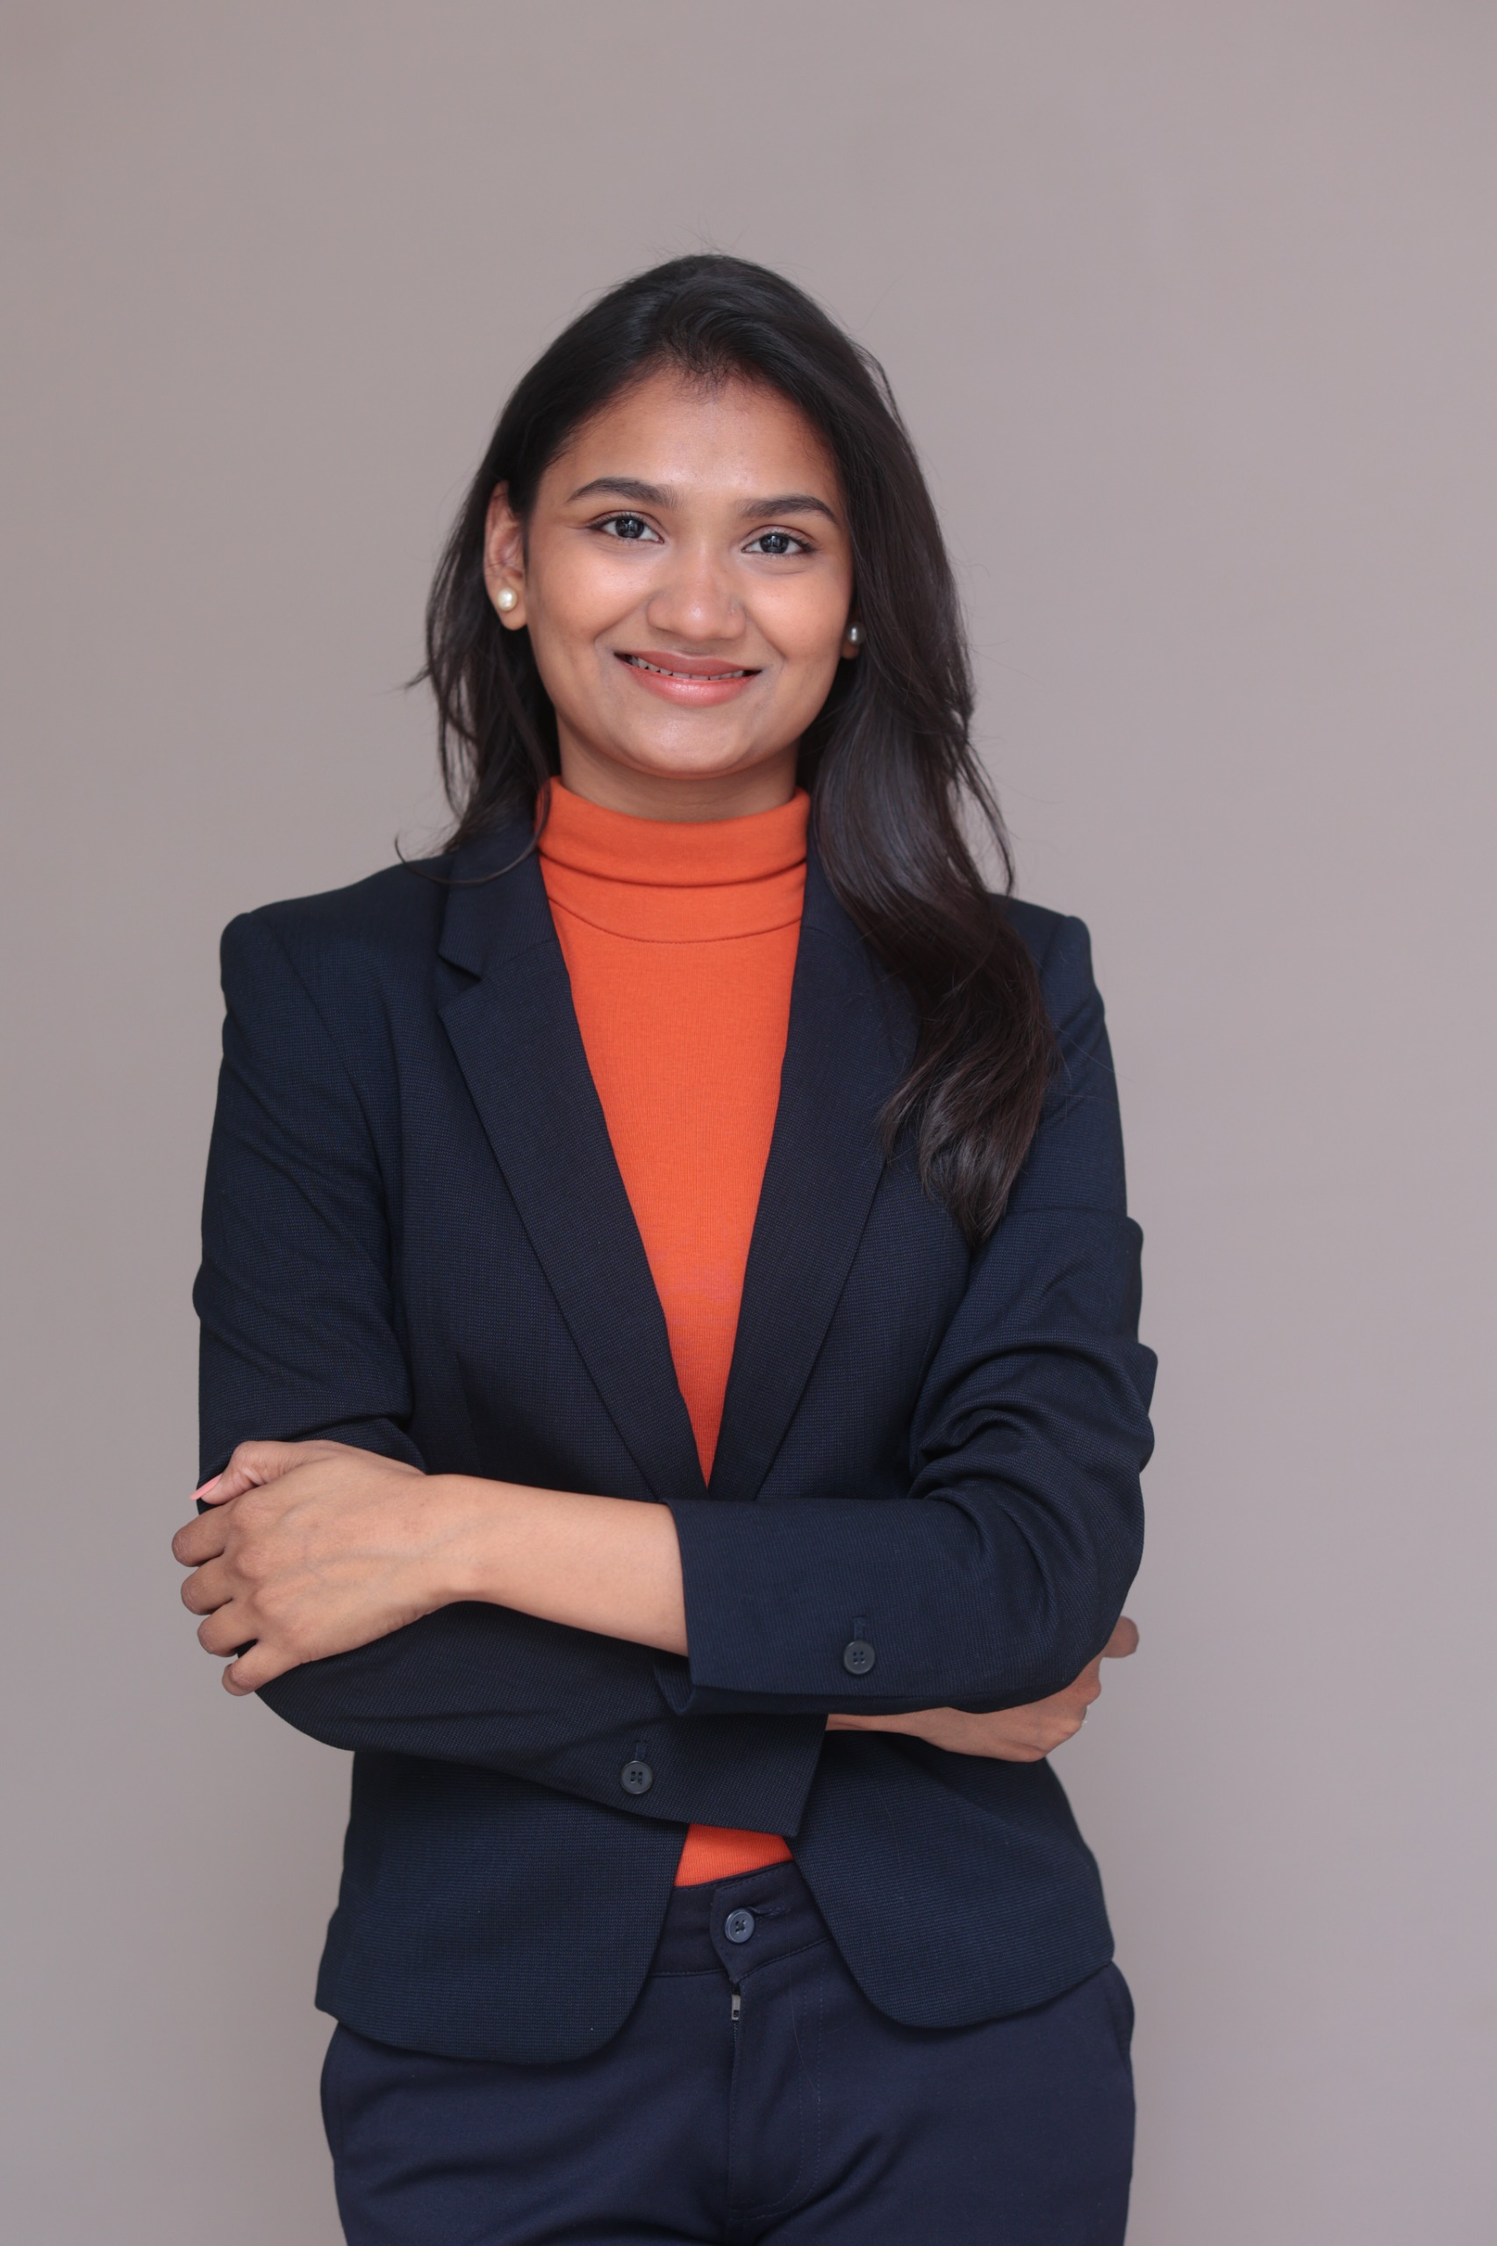
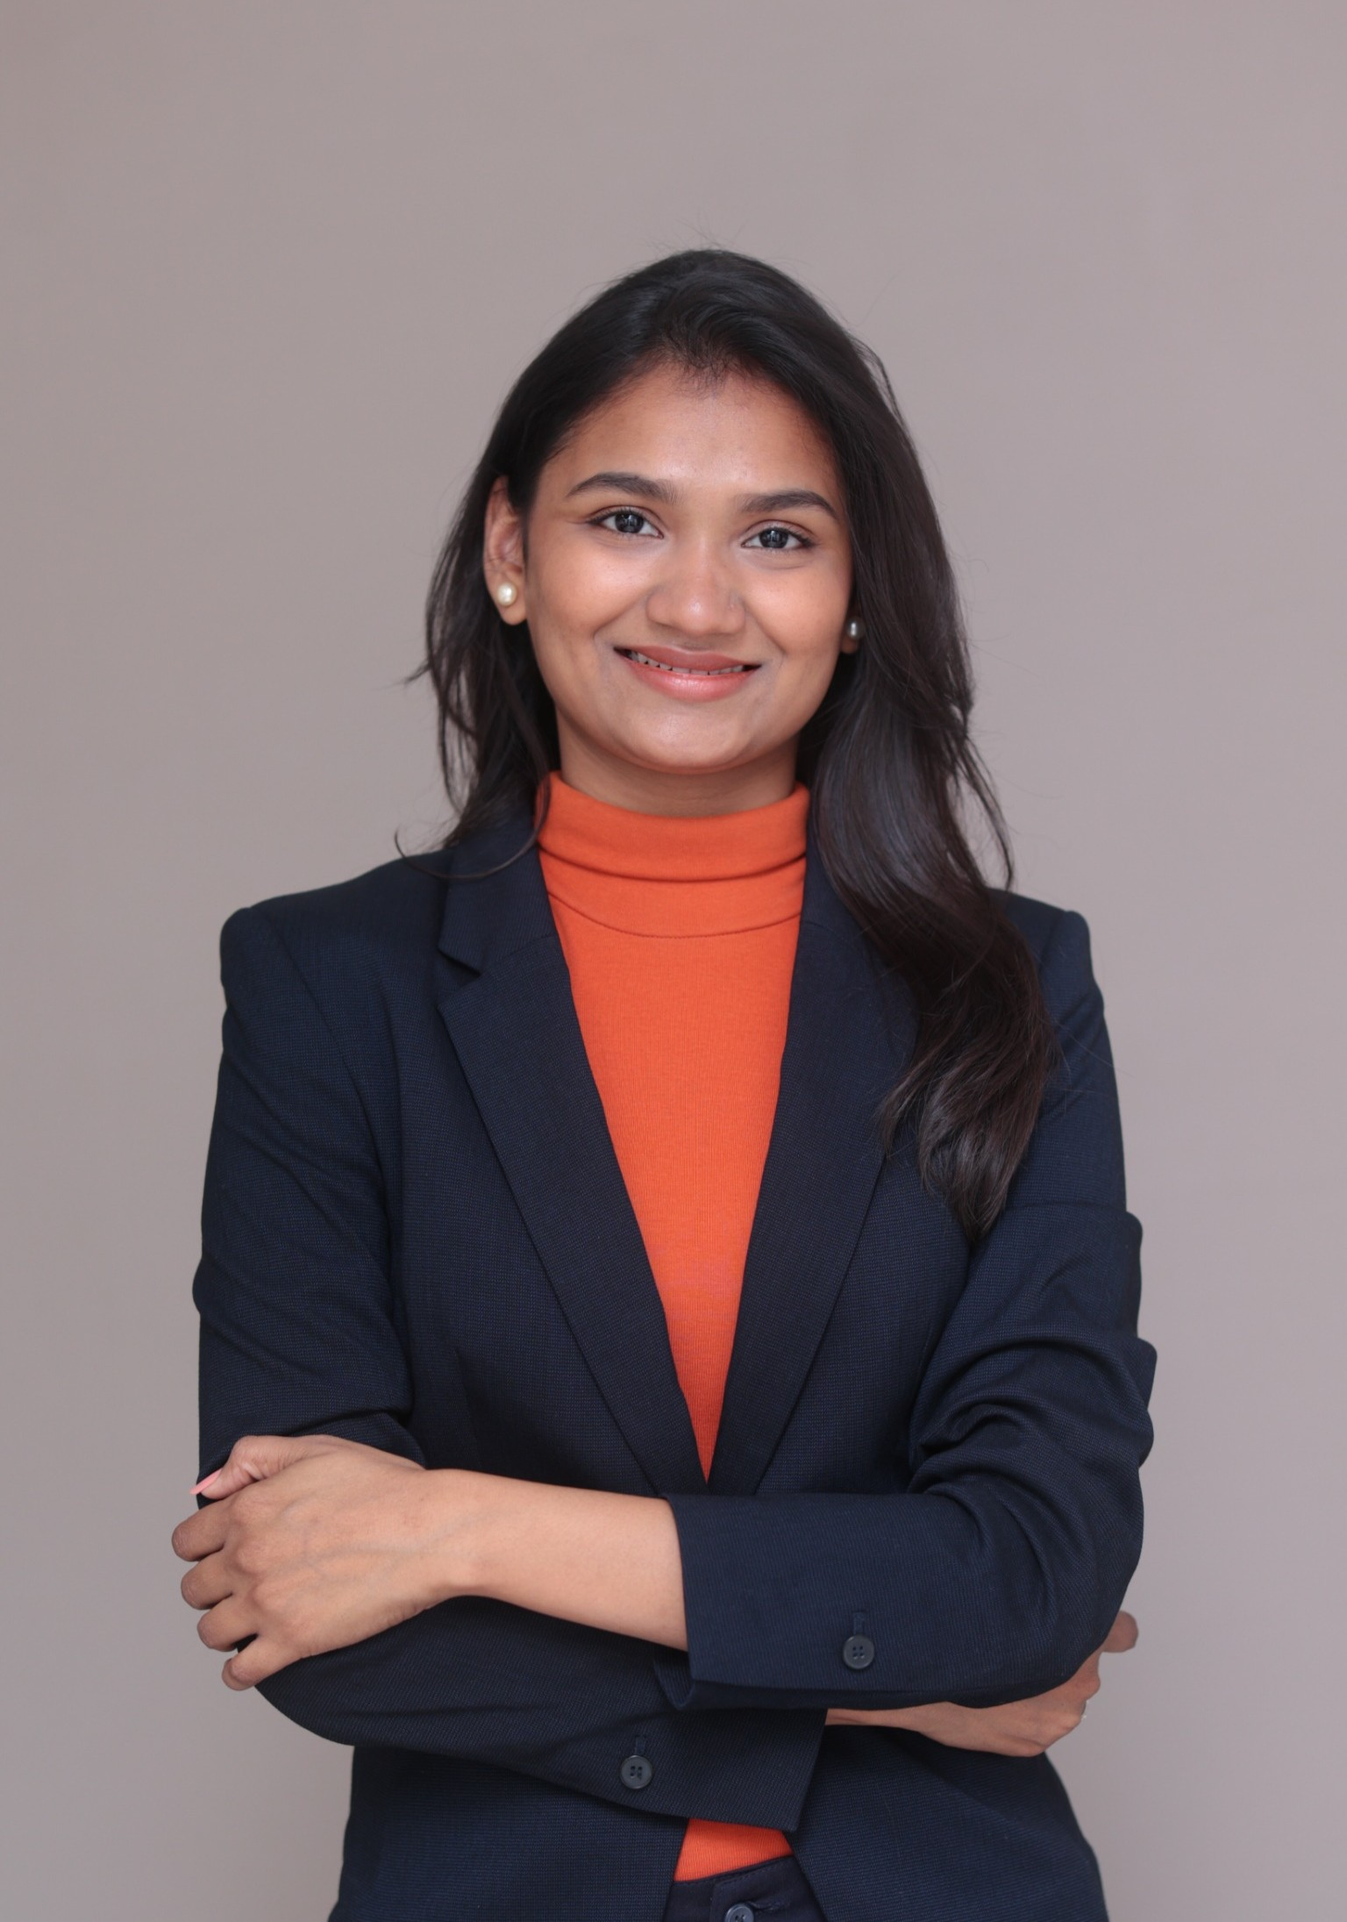
added

Changed region(s): [[0.0938, 0.0931, 0.875, 1.0], [0.25, 0.5276, 0.2812, 0.5586]]

diff --git a/src/components/Admin-Components/Blog-Admin-Component/Edit-Blog-Component/EditBlogComponent.jsx b/src/components/Admin-Components/Blog-Admin-Component/Edit-Blog-Component/EditBlogComponent.jsx
@@ -1,0 +1,187 @@
+"use client";
+
+import { useState } from "react";
+import { Button } from "@/components/ui/button";
+import { Input } from "@/components/ui/input";
+import { Select, SelectContent, SelectItem, SelectTrigger, SelectValue } from "@/components/ui/select";
+import { useToast } from "@/hooks/use-toast";
+import { useCategories } from "./Admin-Blog-Table/UseCategories";
+import Editor from "@/components/Editor";
+import BlogImageUploader from "./BlogImageUploader";
+
+export default function EditBlog({ existingBlog }) {
+  const { toast } = useToast();
+  const { categories, loading: categoriesLoading } = useCategories();
+  const [blogData, setBlogData] = useState({
+    title: existingBlog?.title || "",
+    content: existingBlog?.content || "",
+    slug: existingBlog?.slug || "",
+    published: existingBlog?.published ?? true,
+    authorId: existingBlog?.authorId || "",
+    categoryId: existingBlog?.categoryId || "",
+    image: existingBlog?.image || "",
+    og_image: existingBlog?.og_image || "",
+    meta_title: existingBlog?.meta_title || "",
+    meta_desc: existingBlog?.meta_desc || "",
+    tags: existingBlog?.tags || [],
+  });
+
+  const [previewMode, setPreviewMode] = useState("laptop");
+
+  const handleImageChange = (e, imageType) => {
+    const file = e.target.files[0];
+    if (file) {
+      const reader = new FileReader();
+      reader.onloadend = () => {
+        setBlogData((prevData) => ({
+          ...prevData,
+          [imageType]: reader.result,
+          ...(imageType === "image" && { og_image: reader.result }),
+        }));
+      };
+      reader.readAsDataURL(file);
+    }
+  };
+
+  const handleTagAddition = () => {
+    if (blogData.tagInput?.trim() && !blogData.tags.includes(blogData.tagInput.trim())) {
+      setBlogData((prevData) => ({
+        ...prevData,
+        tags: [...prevData.tags, blogData.tagInput.trim()],
+      }));
+    }
+  };
+
+  const handleTagRemoval = (tagToRemove) => {
+    setBlogData((prevData) => ({
+      ...prevData,
+      tags: prevData.tags.filter((tag) => tag !== tagToRemove),
+    }));
+  };
+
+  const handleContentChange = (newContent) => {
+    setBlogData((prevData) => ({ ...prevData, content: newContent }));
+  };
+
+  const handleSubmit = async (e) => {
+    e.preventDefault();
+    const payload = { ...blogData, categoryId: Number(blogData.categoryId) };
+
+    try {
+      const response = await fetch(`/api/blog/update-blog/${existingBlog.id}`, {
+        method: "PUT",
+        headers: { "Content-Type": "application/json" },
+        body: JSON.stringify(payload),
+      });
+
+      if (!response.ok) throw new Error("Failed to update blog");
+
+      toast({ title: "Success", description: "Blog updated successfully" });
+    } catch (error) {
+      console.error("Error updating blog:", error);
+      toast({ title: "Error", description: "Failed to update blog", variant: "destructive" });
+    }
+  };
+
+  return (
+    <div className="min-h-screen bg-gray-100 dark:bg-gray-900">
+      <div className="max-w-full mx-auto bg-white dark:bg-gray-800 p-6">
+        <h1 className="text-3xl font-bold text-gray-900 dark:text-white text-center">Edit Blog</h1>
+
+        <form onSubmit={handleSubmit} className="space-y-6">
+          {/* Title Input */}
+          <div>
+            <label className="block text-sm font-medium text-gray-700 dark:text-gray-300 mb-1">Title:</label>
+            <Input
+              type="text"
+              value={blogData.title}
+              onChange={(e) => setBlogData((prev) => ({ ...prev, title: e.target.value }))}
+              required
+              placeholder="Enter blog title"
+            />
+          </div>
+
+          {/* Description & Meta Title */}
+          <div className="grid grid-cols-2 gap-4">
+            <div>
+              <label className="block text-sm font-medium text-gray-700 dark:text-gray-300 mb-1">Description:</label>
+              <Input
+                type="text"
+                value={blogData.meta_desc}
+                onChange={(e) => setBlogData((prev) => ({ ...prev, meta_desc: e.target.value }))}
+                required
+                placeholder="Enter blog description"
+              />
+            </div>
+
+            <div>
+              <label className="block text-sm font-medium text-gray-700 dark:text-gray-300 mb-1">Meta Title:</label>
+              <Input
+                type="text"
+                value={blogData.meta_title}
+                onChange={(e) => setBlogData((prev) => ({ ...prev, meta_title: e.target.value }))}
+                required
+                placeholder="Enter meta title"
+              />
+            </div>
+          </div>
+
+          {/* Slug Input */}
+          <div>
+            <label className="block text-sm font-medium text-gray-700 dark:text-gray-300 mb-1">Slug:</label>
+            <Input
+              type="text"
+              value={blogData.slug}
+              onChange={(e) => setBlogData((prev) => ({ ...prev, slug: e.target.value.replace(/\s+/g, "-").toLowerCase() }))}
+              required
+              placeholder="Enter blog slug"
+            />
+          </div>
+
+          {/* Category Select */}
+          <div>
+            <label className="block text-sm font-medium text-gray-700 dark:text-gray-300 mb-1">Category:</label>
+            <Select
+              value={blogData.categoryId.toString()}
+              onValueChange={(value) => setBlogData((prev) => ({ ...prev, categoryId: Number(value) }))}
+              disabled={categoriesLoading}
+            >
+              <SelectTrigger>
+                <SelectValue placeholder={categoriesLoading ? "Loading categories..." : "Select a Category"} />
+              </SelectTrigger>
+              <SelectContent>
+                {categories.map((cat) => (
+                  <SelectItem key={cat.id} value={cat.id.toString()}>
+                    {cat.category_name}
+                  </SelectItem>
+                ))}
+              </SelectContent>
+            </Select>
+          </div>
+
+          {/* Image Uploads */}
+          <BlogImageUploader formData={blogData} setFormData={setBlogData} type={"image"} />
+
+          {/* Editor for Content */}
+          <div>
+            <label className="block text-sm font-medium text-gray-700 dark:text-gray-300 mb-1">Content:</label>
+            <Editor content={blogData.content} onChange={handleContentChange} />
+          </div>
+
+          <Button type="submit" className="w-full bg-blue-600 hover:bg-blue-700 text-white py-2 px-4 rounded-lg">
+            Update Blog
+          </Button>
+        </form>
+
+        {/* Preview Section */}
+        <div className="mt-12 border-t border-gray-200 dark:border-gray-700 pt-8">
+          <h2 className="text-xl font-semibold text-gray-800 dark:text-white">Preview:</h2>
+          <div className={previewMode === "mobile" ? "max-w-sm mx-auto" : "w-full"}>
+            <h3 className="text-2xl font-bold mb-4">{blogData.title}</h3>
+            <div dangerouslySetInnerHTML={{ __html: blogData.content }} />
+          </div>
+        </div>
+      </div>
+    </div>
+  );
+}

diff --git a/src/components/Blog-Component/BlogPage.jsx b/src/components/Blog-Component/BlogPage.jsx
@@ -1,65 +1,101 @@
-// components/Blog-Component/BlogPage.jsx
+"use client"
 import React from "react";
+import { motion } from "framer-motion";
+import Image from "next/image";
 
 const BlogPage = ({ data }) => {
   if (!data) {
-    return <div className="text-center text-red-500 mt-10 text-lg">Blog not found</div>;
+    return (
+      <div className="flex items-center justify-center min-h-screen text-red-500 text-lg">
+        Blog not found
+      </div>
+    );
   }
 
   return (
-    <div className="container mx-auto px-4 sm:px-6 lg:px-8  py-16 md:py-24">
-      <div className="max-w-6xl mx-auto bg-white dark:bg-gray-900 rounded-lg shadow-lg p-6 md:p-10">
-        
+    <div className="container mx-auto px-4 sm:px-6 lg:px-8 py-16 md:py-24 grid grid-cols-1 md:grid-cols-3 gap-10">
+      {/* Left Side - Blog Content */}
+      <motion.div
+        initial={{ opacity: 0, x: -50 }}
+        animate={{ opacity: 1, x: 0 }}
+        transition={{ duration: 0.8, ease: "easeOut" }}
+        className="md:col-span-2  dark:bg-gray-900 p-6 md:p-10"
+      >
         {/* Blog Header */}
-        <div className="text-center mb-6 md:mb-10">
+        <div className="text-center flex flex-col gap-4 md:gap-6 lg:gap-8 mb-6 md:mb-10">
           <h1 className="text-3xl md:text-4xl font-bold text-gray-900 dark:text-white leading-tight">
             {data.title}
           </h1>
-          <p className="text-lg mt-2 text-gray-600 dark:text-gray-300">By {data.author.name}</p>
+          <p className="text-gray-600 dark:text-gray-400">{data.meta_desc}</p>
+          <p className="text-lg mt-2 text-gray-600 dark:text-gray-300"> {data.author.name}</p>
         </div>
 
         {/* Blog Image */}
-        {/* <div className="w-full h-60 md:h-80 lg:h-96 mb-8">
+        <div className="w-full h-60 md:h-80 lg:h-96 mb-8">
           <img
-            src={data.image || "/default-image.jpg"}
+            src={data.image || "/assets/manasi-box.png"}
             alt={data.title}
             className="object-cover w-full h-full rounded-lg"
           />
-        </div> */}
+        </div>
 
         {/* Blog Content */}
         <div className="text-base md:text-lg text-gray-800 dark:text-gray-300 leading-relaxed">
           <div dangerouslySetInnerHTML={{ __html: data.content }}></div>
         </div>
+      </motion.div>
 
-        {/* SEO Details */}
-        {/* {data.seo && (
-          <div className="mt-12 bg-gray-100 dark:bg-gray-800 p-6 rounded-lg">
-            <h2 className="text-xl font-semibold mb-4 text-gray-800 dark:text-gray-200">SEO Information</h2>
-            <p className="text-sm text-gray-600 dark:text-gray-400">
-              <strong>Meta Title:</strong> {data.seo.meta_title}
-            </p>
-            <p className="text-sm text-gray-600 dark:text-gray-400">
-              <strong>Meta Description:</strong> {data.seo.meta_description}
-            </p>
-            <p className="text-sm text-gray-600 dark:text-gray-400">
-              <strong>OG Title:</strong> {data.seo.og_title}
-            </p>
-            {data.seo.og_image && (
-              <div className="mt-4">
-                <img
-                  src={data.seo.og_image}
-                  alt="Open Graph Image"
-                  className="w-40 h-40 object-cover rounded-lg shadow-lg"
-                />
-              </div>
-            )}
-          </div>
-        )} */}
-      </div>
+      {/* Right Side - Author & Additional Features */}
+      <motion.div 
+        initial={{ opacity: 0, x: 50 }}
+        animate={{ opacity: 1, x: 0 }}
+        transition={{ duration: 0.8, ease: "easeOut" }}
+        className="space-y-6"
+      >
+        {/* Search Bar */}
+        <div className="bg-gray-100 dark:bg-gray-800 p-4 rounded-lg">
+          <input 
+            type="text" 
+            placeholder="Search blog..." 
+            className="w-full px-4 py-2 rounded-lg focus:outline-none"
+          />
+        </div>
+        {/* Author Section */}
+        <div className="bg-gray-100 flex flex-col gap-5 dark:bg-gray-800 p-6 rounded-lg text-center">
+           <div className="flex flex-1 items-center justify-center w-full  relative group">
+                    <Image
+                      src="/assets/Manasi_kadam_image.jpg"
+                      height={400}
+                      width={200}
+                      alt="modern Mannerism"
+                      className=" bg-cover rounded-full    border-[#06273A] dark:border-[#fff] border-5 transition-transform duration-300 ease-in-out transform group-hover:scale-105"
+                    />
+                    
+                  </div>
+          <h3 className="text-xl font-semibold text-gray-900 dark:text-white">Manasi Kadam</h3>
+          <p className="text-gray-600 dark:text-gray-400">Hi Manasi kaisi Hai</p>
+          <button className=" bg-gradient-to-r from-[#c3965d] to-[#eabf91] font-bold text-white min-w-fit px-6 md:px-6 py-2 md:py-3 rounded-full">
+            Know More
+          </button>
+        </div>
+
+        
+
+        
+         {/* Recent Blogs */}
+         <div className="bg-gray-100 shadow-md shadow-slate-400 dark:bg-gray-800 p-6 rounded-lg">
+          <h3 className="text-lg font-semibold text-gray-900 dark:text-white mb-4">Recent Updates</h3>
+          <ul className="space-y-2">
+            {data.recentBlogs?.map((blog, index) => (
+              <li key={index} className="text-blue-600 dark:text-blue-400 hover:underline">
+                <a href={`/blog/${blog.slug}`}>{blog.title}</a>
+              </li>
+            ))}
+          </ul>
+        </div>
+      </motion.div>
     </div>
   );
 };
 
 export default BlogPage;
-  

diff --git a/src/components/EmailPopup/EmailPopup.jsx b/src/components/EmailPopup/EmailPopup.jsx
@@ -61,13 +61,13 @@ export default function EmailPopup() {
 
   return (
     <Dialog open={isOpen} onOpenChange={setIsOpen}>
-      <DialogContent className="p-6 flex flex-col md:flex-row items-center gap-6 w-full md:max-w-max"> {/* Increased width */}
+      <DialogContent className="p-6 flex flex-col md:flex-row items-center gap-6 w-full md:min-w-max"> {/* Increased width */}
         {/* Image */}
-        <div className="flex-1 w-full md:w-[50%]">
-          <Image src="/assets/pop-up.jpg" alt="Branding" width={300} height={500} className="rounded-lg object-cover w-full h-full" />
+        <div className="flex-1  border-2 border-sky-600 flex justify-start items-center w-[90%] md:w-[50%]">
+          <Image src="/assets/manasi-box.png" alt="Branding" width={400} height={400} className="rounded-lg object-cover " />
         </div>
         {/* Form */}
-        <div className="flex-1 flex flex-col items-center gap-8 justify-center w-full md:w-[50%]">
+        <div className="flex-1 flex flex-col items-center gap-16 justify-center w-full md:w-[50%]">
           <DialogHeader>
             <DialogTitle className="text-2xl font-semibold text-center md:text-left">
               Unlock Your Path to Elegance & Confidence!
@@ -78,12 +78,12 @@ export default function EmailPopup() {
               <p className="text-center md:text-lg  text-sm text-gray-600">
                 Get your FREE e-book – a practical, insightful guide to refining your social and professional image with ease.
               </p>
-              <div className="flex flex-col gap-5">
-            <div className="flex gap-4">    <Input type="text" placeholder="First Name" className="mt-3" value={firstName} onChange={(e) => setFirstName(e.target.value)} />
+              <div className="flex flex-col gap-10">
+            <div className="flex gap-6">    <Input type="text" placeholder="First Name" className="mt-3" value={firstName} onChange={(e) => setFirstName(e.target.value)} />
                 <Input type="text" placeholder="Last Name" className="mt-3" value={lastName} onChange={(e) => setLastName(e.target.value)} />
               </div>  <Input type="email" placeholder="Enter your email" className="mt-3" value={email} onChange={(e) => setEmail(e.target.value)} />
               </div>
-              <div className="flex justify-center gap-3 mt-4">
+              <div className="flex justify-center gap-8 mt-4">
                 <Button variant="outline" onClick={handleClose}>Maybe Later</Button>
                 <Button onClick={handleSubmit}>Get Your Free E-Book Now</Button>
               </div>

diff --git a/src/components/Services-Component/ServicePage/Faq.jsx b/src/components/Services-Component/ServicePage/Faq.jsx
@@ -46,7 +46,7 @@ const Faq = ({data}) => {
                   <AccordionTrigger className="text-lg font-medium text-gray-900 dark:text-white p-4 rounded-t-lg">
                     {faq.question}
                   </AccordionTrigger>
-                  <AccordionContent className="text-gray-700 dark:text-gray-300 p-4 bg-gray-100 dark:bg-gray-700 rounded-b-lg">
+                  <AccordionContent className="text-gray-700 bg-gray-100 bg-opacity-70  dark:text-gray-300 p-4  rounded-b-lg">
                     {faq.answer}
                   </AccordionContent>
                 </Card>
